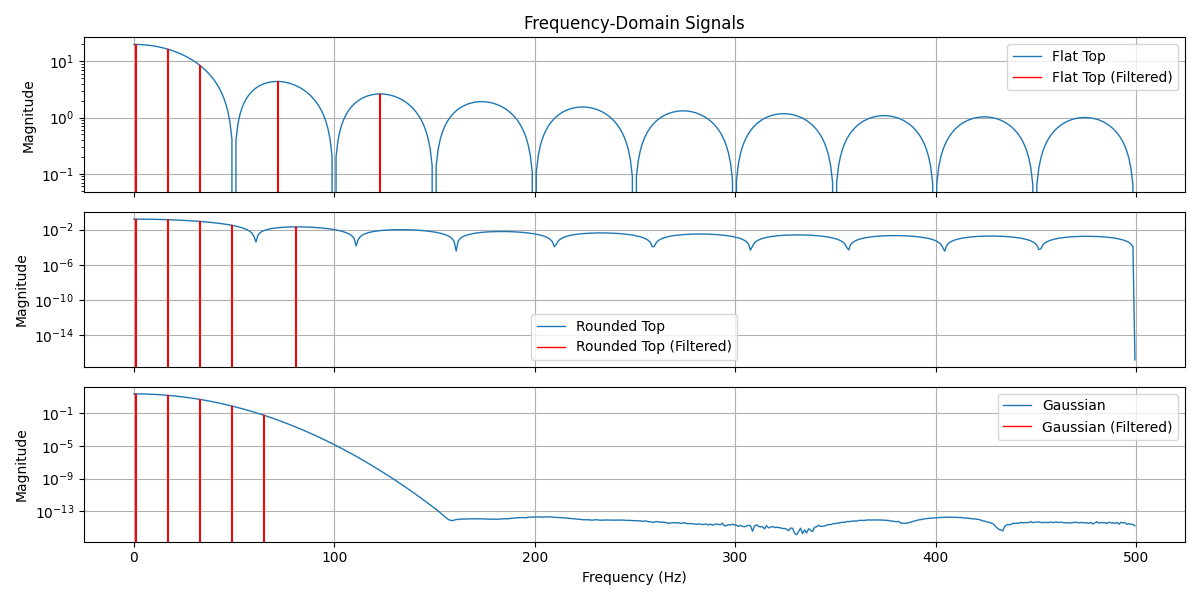
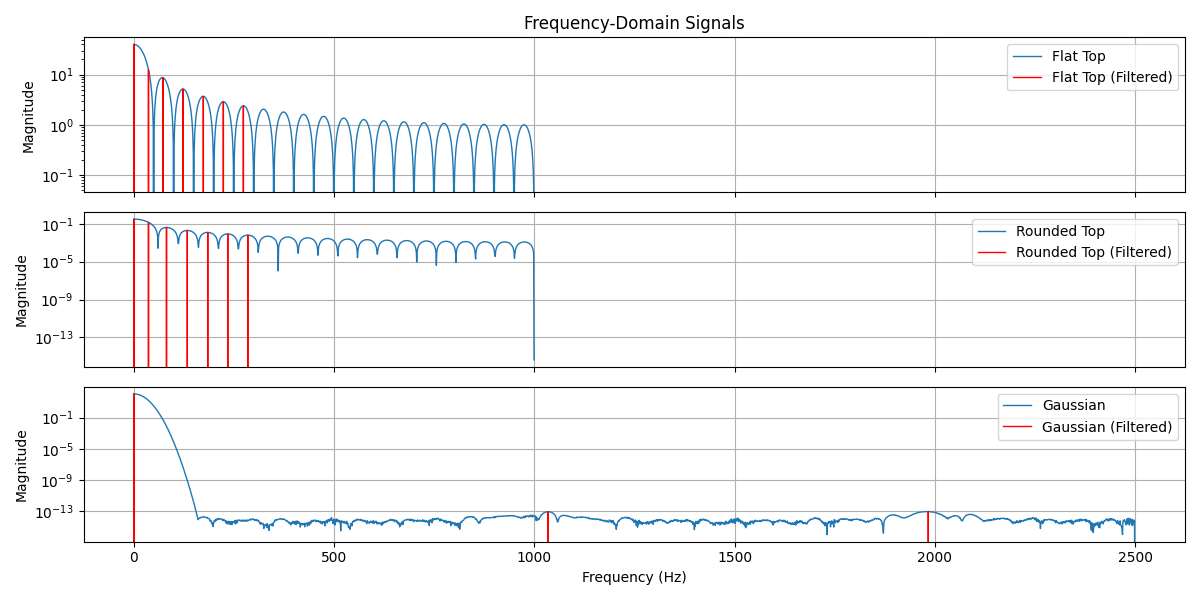
ex12p3

diff --git a/exercise12/piano.py b/exercise12/piano.py
@@ -37,9 +37,9 @@ def create_initial_string(l=1.0, n=1000, shape='flat'):
 
 
 ## Create initial string shapes
-flat_string = create_initial_string(l=1.0, n=1000, shape='flat')
-round_string = create_initial_string(l=1.0, n=1000, shape='round')
-gaussian_string = create_initial_string(l=1.0, n=1000, shape='gaussian')
+flat_string = create_initial_string(l=1.0, n=2000, shape='flat')
+round_string = create_initial_string(l=1.0, n=2000, shape='round')
+gaussian_string = create_initial_string(l=1.0, n=5000, shape='gaussian')
 
 
 
@@ -89,9 +89,9 @@ def compute_fft(signal):
 
 
 ## Plot frequency-domain signals
-def plot_frequency_domain(fsignals, labels, filename, k, res):
+def plot_frequency_domain(fsignals, labels, filename, peaks, res):
     fig, axs = plt.subplots(len(fsignals), 1, figsize=(12, 6), sharex=True)
-    for ax, signal, label in zip(axs, fsignals, labels):
+    for ax, signal, label, k, r in zip(axs, fsignals, labels, peaks, res):
         if signal is not None:
             xf = signal[:, 0]
             yf = signal[:, 1]
@@ -108,8 +108,8 @@ def plot_frequency_domain(fsignals, labels, filename, k, res):
                 if j == 0:
                     continue  # ignore DC component
                 freq = xf[j]
-                # skip if within res Hz of any already accepted peak
-                if any(abs(freq - xf[k]) < res for k in accepted):
+                # skip if within r Hz of any already accepted peak
+                if any(abs(freq - xf[k]) < r for k in accepted):
                     continue
                 accepted.append(j)
                 if len(accepted) >= k:
@@ -141,5 +141,5 @@ def plot_frequency_domain(fsignals, labels, filename, k, res):
 plot_frequency_domain([flat_f, round_f, gaussian_f], 
                       ['Flat Top', 'Rounded Top', 'Gaussian'], 
                       'piano_string_frequency_domain.png', 
-                      k=5, res=15)
+                      peaks=[7, 7, 3], res=[35, 35, 500])
 

diff --git a/README.md b/README.md
@@ -187,6 +187,9 @@ Required dependencies and installation instructions are given below. The code ha
   - [Problem 2a plot](exercise12/frequency_domain_signals.png)
   - [Problem 2c plot early t](exercise12/window_frequency_domain_3.75s.png)
   - [Problem 2c plot late t](exercise12/window_frequency_domain_5s.png)
+  - [Problem 3 test](exercise12/exercise12_3.txt)
+  - [Problem 3 plot spatial](exercise12/initial_string_shapes.png)
+  - [Problem 3 plot frequency](exercise12/piano_string_frequency_domain.png)
 
 
 
